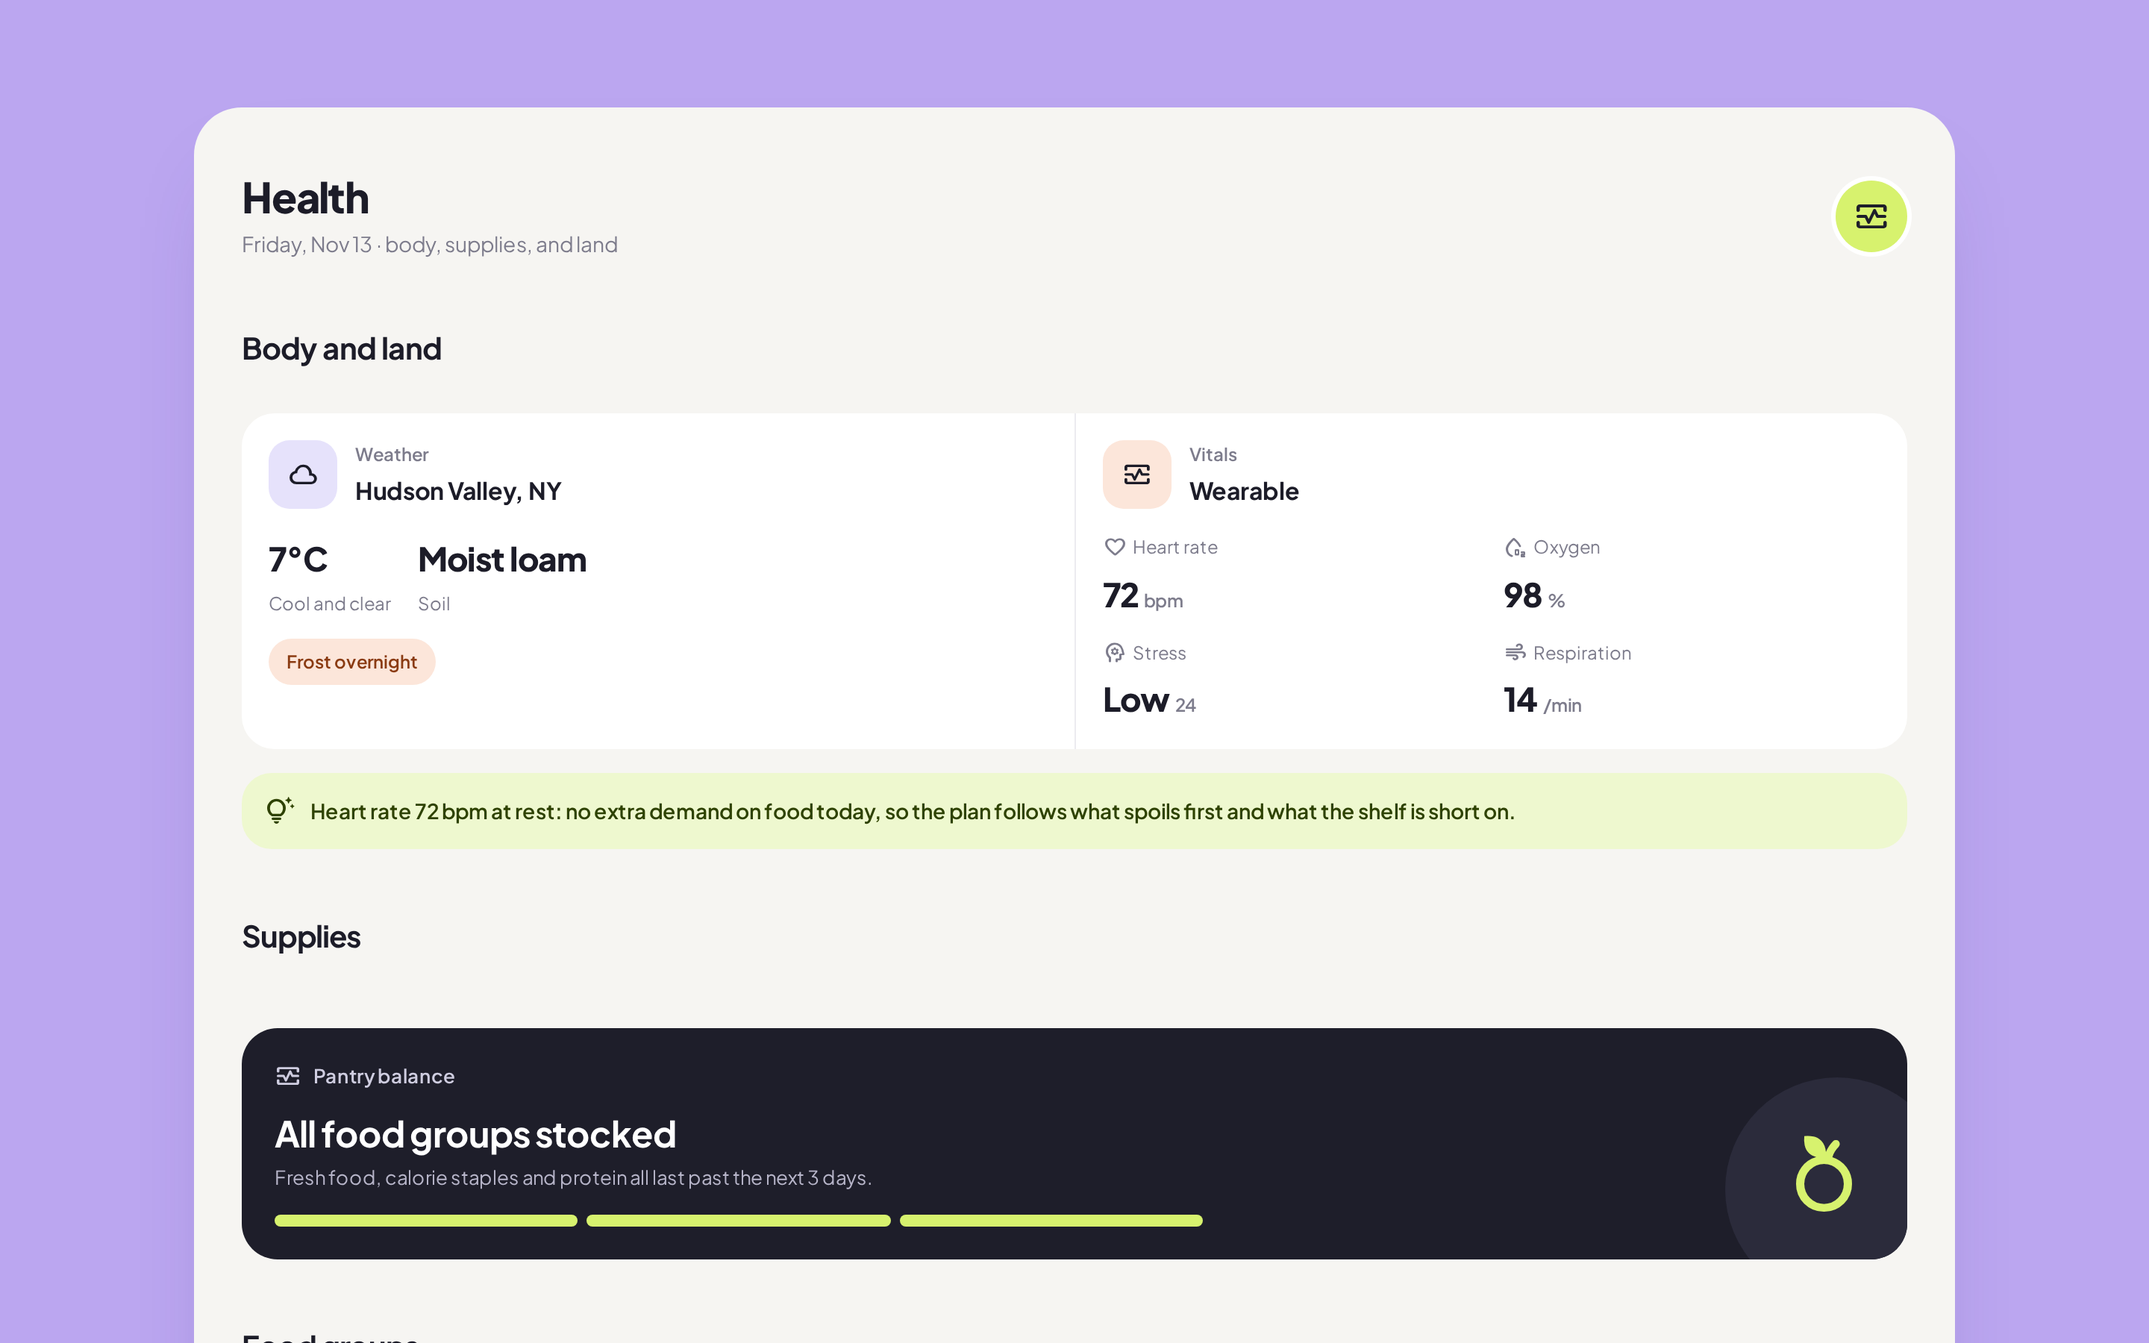
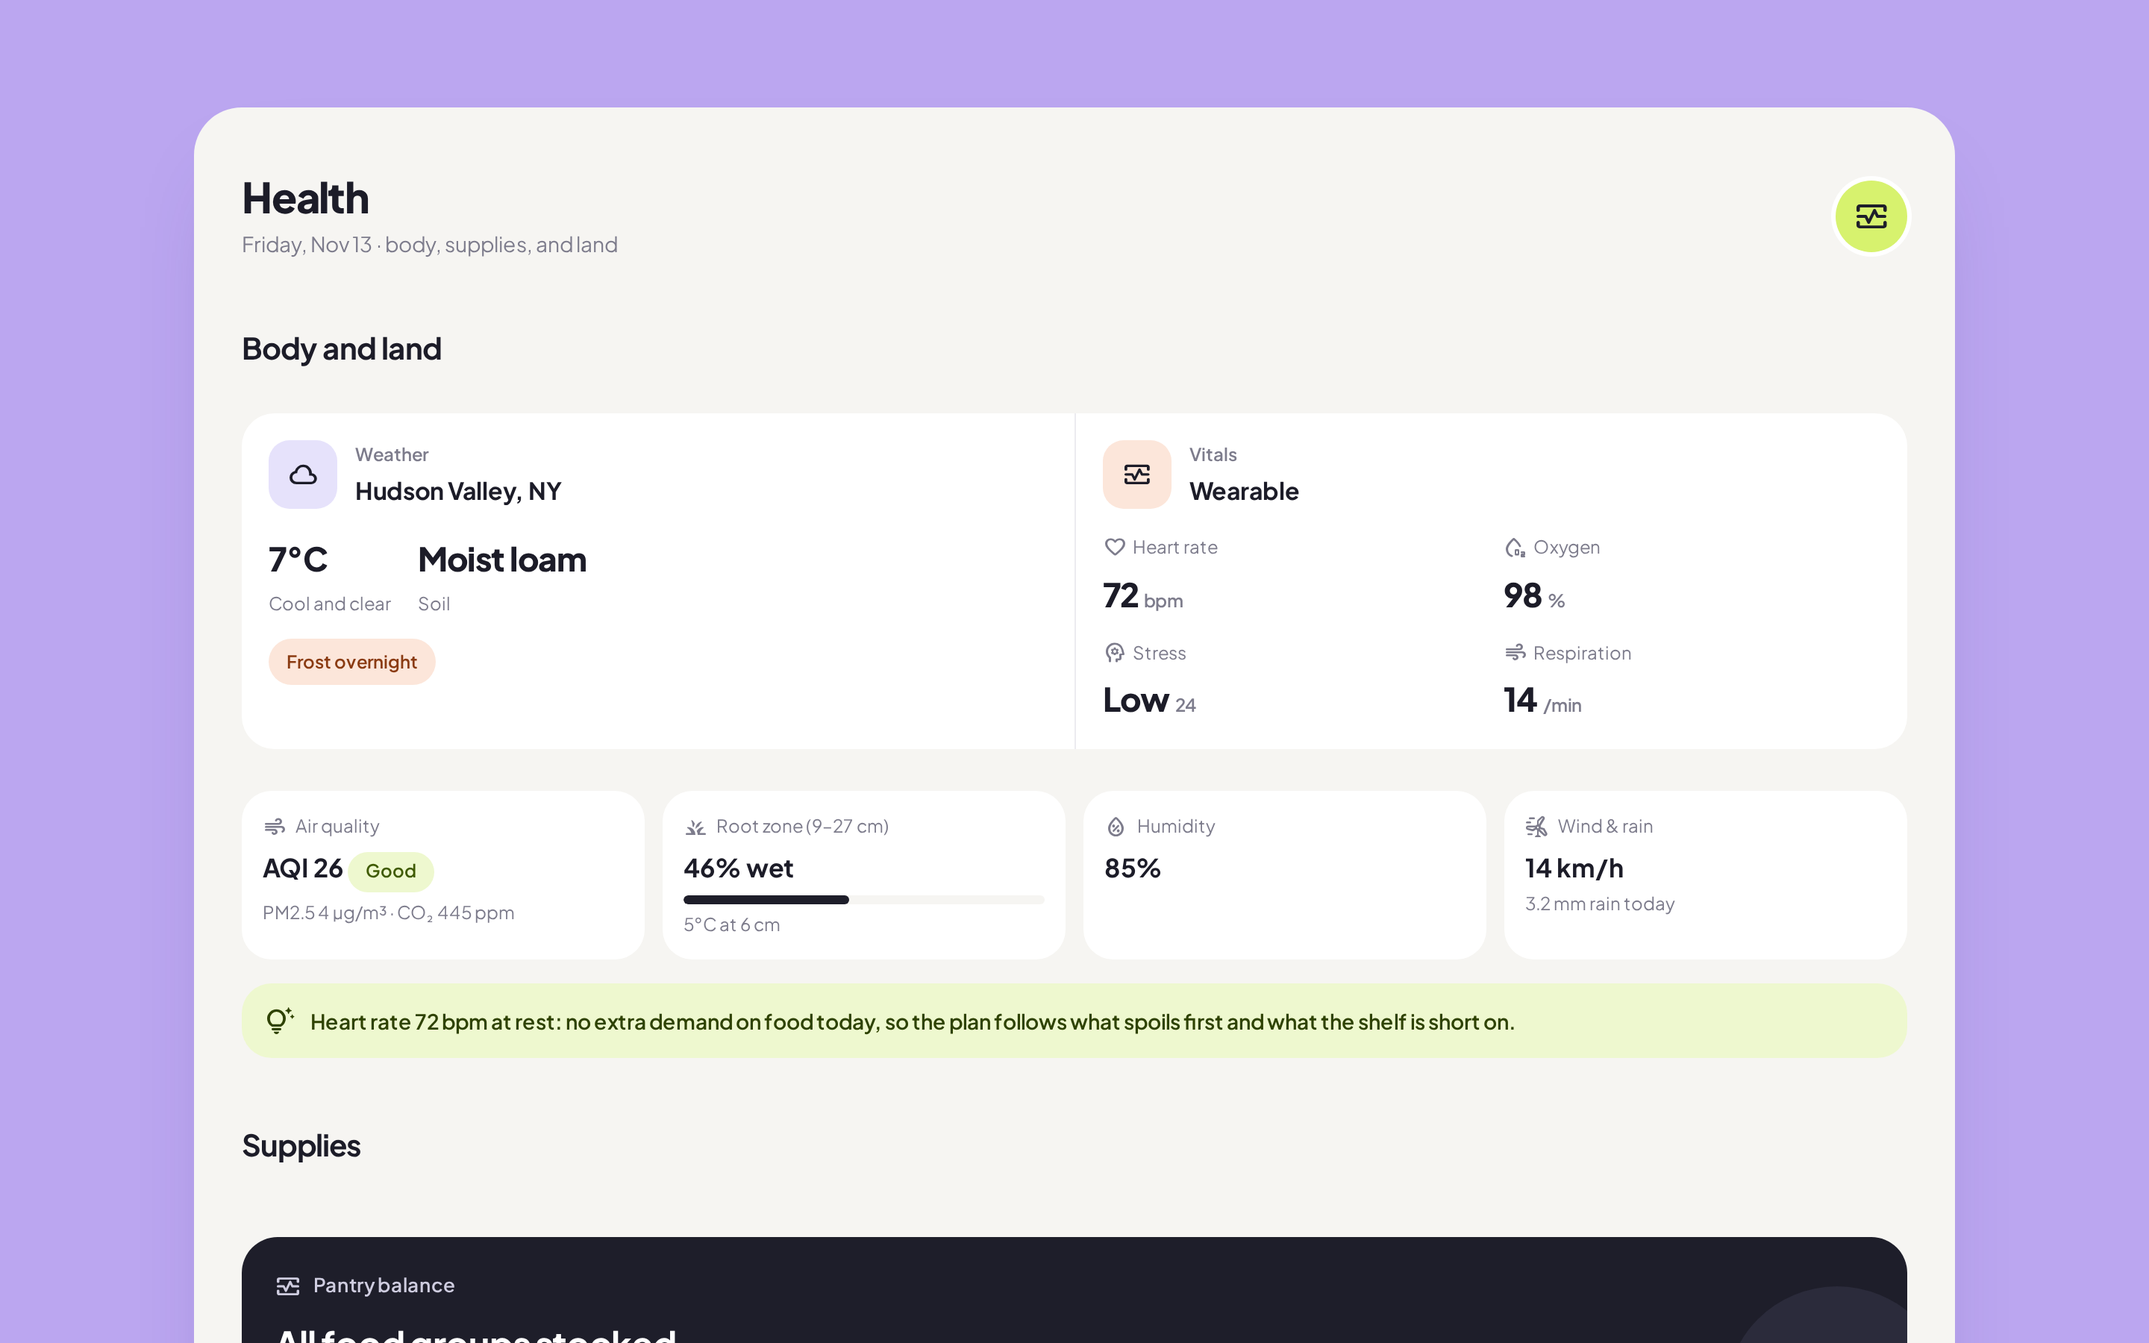
Air quality and deeper soil in the sensor; shown on Farm, Health, and the Why slide
The live sensor also reads Open-Meteo's air-quality feed (US AQI, PM2.5,
PM10, CO2, CO, ozone, NO2) plus root-zone moisture (9–27 cm), soil
temperature at 6 cm, humidity, wind, and today's rain. Weather still
counts if the air feed fails. New warnings: unhealthy air, smoke/dust,
heavy rain, high wind, dry root zone; a dry root zone also steers the
crop advice. The mock fixture carries the same fields from a real reading.
Why slide gains a 'Reads air, soil & weather' row.

Changed region(s): [[0.0938, 0.56, 0.9062, 1.0]]

diff --git a/pitch/index.html b/pitch/index.html
@@ -239,7 +239,7 @@
             <rect x="45" y="555" width="515" height="42" rx="21" fill="#FFFFFF" stroke="#BBA6F0" stroke-width="2"/>
             <text x="302" y="582" text-anchor="middle" font-size="17" font-weight="700" fill="#1C1C28">Wearable: heart rate · blood readings · CO₂</text>
             <rect x="640" y="555" width="518" height="42" rx="21" fill="#FFFFFF" stroke="#BBA6F0" stroke-width="2"/>
-            <text x="899" y="582" text-anchor="middle" font-size="17" font-weight="700" fill="#1C1C28">Sensors: weather · soil moisture · frost</text>
+            <text x="899" y="582" text-anchor="middle" font-size="17" font-weight="700" fill="#1C1C28">Sensors: weather · soil · air quality</text>
           </svg>
         </div>
         <aside class="notes">At the center is what you need: the wearable reads your body, the pantry your supplies, sensors the land. Around it: stock up, cook what spoils first, compost the scraps, plant the gap, harvest.</aside>
@@ -298,6 +298,12 @@
           <div class="cap">Cooks & plants for your gaps</div>
           <div class="no">—</div>
           <div class="part">~</div>
+          <div class="part">~</div>
+          <div class="no">—</div>
+          <div class="us">✓</div>
+          <div class="cap">Reads air, soil &amp; weather</div>
+          <div class="no">—</div>
+          <div class="no">—</div>
           <div class="part">~</div>
           <div class="no">—</div>
           <div class="us">✓</div>

diff --git a/larder/sensors/live.py b/larder/sensors/live.py
@@ -23,9 +23,10 @@ from collections.abc import Callable
 from datetime import datetime, timedelta, timezone
 from typing import Any
 
-from larder.sensors.base import LiveSensorUnavailable, SensorSnapshot
+from larder.sensors.base import AirQuality, LiveSensorUnavailable, SensorSnapshot
 
 API_URL = "https://api.open-meteo.com/v1/forecast"
+AIR_URL = "https://air-quality-api.open-meteo.com/v1/air-quality"
 CACHE_SECONDS = 600
 
 # Volumetric water content (m³/m³) at which a loam is saturated. Dividing by
@@ -105,13 +106,27 @@ class LiveSensor:
             {
                 "latitude": f"{self.latitude:.4f}",
                 "longitude": f"{self.longitude:.4f}",
-                "current": "temperature_2m,weather_code,soil_moisture_0_to_1cm,soil_temperature_0cm",
-                "daily": "temperature_2m_min",
+                "current": (
+                    "temperature_2m,weather_code,relative_humidity_2m,wind_speed_10m,"
+                    "soil_moisture_0_to_1cm,soil_moisture_9_to_27cm,soil_temperature_0cm,soil_temperature_6cm"
+                ),
+                "daily": "temperature_2m_min,precipitation_sum",
                 "forecast_days": 2,
                 "timezone": "auto",
             }
         )
         return f"{API_URL}?{query}"
+
+    def air_url(self) -> str:
+        query = urllib.parse.urlencode(
+            {
+                "latitude": f"{self.latitude:.4f}",
+                "longitude": f"{self.longitude:.4f}",
+                "current": "us_aqi,pm2_5,pm10,carbon_dioxide,carbon_monoxide,ozone,nitrogen_dioxide",
+                "timezone": "auto",
+            }
+        )
+        return f"{AIR_URL}?{query}"
 
     def read(self) -> SensorSnapshot:
         url = self.url()
@@ -119,8 +134,38 @@ class LiveSensor:
         if cached and time.monotonic() - cached[0] < self.cache_seconds:
             return cached[1]
         snapshot = self.parse(self._fetch(url, self.timeout))
+        try:
+            air = self.parse_air(self._fetch(self.air_url(), self.timeout))
+        except LiveSensorUnavailable:
+            air = None  # weather and soil still count without the air reading
+        snapshot = snapshot.model_copy(update={"air": air})
         _cache[url] = (time.monotonic(), snapshot)
         return snapshot
+
+    @staticmethod
+    def parse_air(payload: dict[str, Any]) -> AirQuality:
+        """Turn an Open-Meteo air-quality reply into readings, or refuse."""
+        try:
+            current = payload["current"]
+            aqi = current["us_aqi"]
+            if aqi is None:
+                raise KeyError("us_aqi")
+
+            def opt(key: str) -> float | None:
+                value = current.get(key)
+                return None if value is None else float(value)
+
+            return AirQuality(
+                us_aqi=int(aqi),
+                pm2_5=opt("pm2_5"),
+                pm10=opt("pm10"),
+                co2_ppm=opt("carbon_dioxide"),
+                carbon_monoxide=opt("carbon_monoxide"),
+                ozone=opt("ozone"),
+                nitrogen_dioxide=opt("nitrogen_dioxide"),
+            )
+        except (KeyError, TypeError, ValueError) as exc:
+            raise LiveSensorUnavailable(f"Air-quality reply is missing a field: {exc}") from exc
 
     def parse(self, payload: dict[str, Any]) -> SensorSnapshot:
         """Turn an Open-Meteo reply into a snapshot, or refuse."""
@@ -132,7 +177,12 @@ class LiveSensor:
             code = int(current["weather_code"])
             lows = [float(v) for v in payload["daily"]["temperature_2m_min"] if v is not None]
             raw_moisture = current.get("soil_moisture_0_to_1cm")
+            raw_root = current.get("soil_moisture_9_to_27cm")
             soil_temp = current.get("soil_temperature_0cm")
+            soil_temp_6 = current.get("soil_temperature_6cm")
+            humidity = current.get("relative_humidity_2m")
+            wind = current.get("wind_speed_10m")
+            rain = payload["daily"].get("precipitation_sum") or [None]
         except (KeyError, TypeError, ValueError) as exc:
             raise LiveSensorUnavailable(f"Open-Meteo reply is missing a field: {exc}") from exc
         if not lows:
@@ -158,5 +208,10 @@ class LiveSensor:
             soil_condition=condition,
             soil_moisture=moisture,
             frost_risk=low <= FROST_LOW_C,
+            soil_moisture_root=None if raw_root is None else max(0.0, min(1.0, float(raw_root) / SATURATED_VWC)),
+            soil_temp_c=None if soil_temp_6 is None else float(soil_temp_6),
+            humidity_pct=None if humidity is None else float(humidity),
+            wind_kph=None if wind is None else float(wind),
+            rain_today_mm=None if rain[0] is None else float(rain[0]),
             source="live",
         )

diff --git a/fallow_ui.py b/fallow_ui.py
@@ -19,7 +19,7 @@ from larder.health.nutrition import NutritionReport
 from larder.health.vitals import Vitals, stress_label
 from larder.meals.recipes import Recipe
 from larder.models import GrowPlan, InventoryItem, MealPlan, SpoilageRisk
-from larder.sensors.base import SensorSnapshot
+from larder.sensors.base import SensorSnapshot, aqi_label
 
 # Category -> (Material Symbols icon, pastel tile tone)
 CATEGORY_ICON = {
@@ -422,6 +422,50 @@ def conditions(snapshot: SensorSnapshot) -> None:
         f'<div class="fw-cond"><div class="l">{icon("ac_unit")}Frost</div><div class="v">{frost}</div></div>'
         "</div>"
     )
+
+
+def environment_details(snapshot: SensorSnapshot) -> None:
+    """Second row of condition cards: air, root-zone soil, humidity, wind and rain.
+
+    A card appears only when the sensor actually read that value.
+    """
+    cards: list[str] = []
+    air = snapshot.air
+    if air is not None:
+        tone = "lime" if air.us_aqi <= 50 else ("cream" if air.us_aqi <= 100 else "red")
+        extra = []
+        if air.pm2_5 is not None:
+            extra.append(f"PM2.5 {air.pm2_5:.0f} µg/m³")
+        if air.co2_ppm is not None:
+            extra.append(f"CO₂ {air.co2_ppm:.0f} ppm")
+        cards.append(
+            f'<div class="fw-cond"><div class="l">{icon("air")}Air quality</div>'
+            f'<div class="v">AQI {air.us_aqi} <span class="fw-pill {tone}">{escape(aqi_label(air.us_aqi))}</span></div>'
+            f'<div class="l" style="margin-top:4px">{escape(" · ".join(extra))}</div></div>'
+        )
+    root = snapshot.soil_moisture_root
+    if root is not None or snapshot.soil_temp_c is not None:
+        value = f"{root * 100:.0f}% wet" if root is not None else "n/a"
+        gauge = f'<div class="gauge"><span style="width:{root * 100:.0f}%"></span></div>' if root is not None else ""
+        temp = f"{snapshot.soil_temp_c:.0f}&deg;C at 6 cm" if snapshot.soil_temp_c is not None else ""
+        cards.append(
+            f'<div class="fw-cond"><div class="l">{icon("grass")}Root zone (9–27 cm)</div>'
+            f'<div class="v">{value}</div>{gauge}<div class="l" style="margin-top:4px">{temp}</div></div>'
+        )
+    if snapshot.humidity_pct is not None:
+        cards.append(
+            f'<div class="fw-cond"><div class="l">{icon("humidity_percentage")}Humidity</div>'
+            f'<div class="v">{snapshot.humidity_pct:.0f}%</div></div>'
+        )
+    if snapshot.wind_kph is not None or snapshot.rain_today_mm is not None:
+        wind = f"{snapshot.wind_kph:.0f} km/h" if snapshot.wind_kph is not None else "n/a"
+        rain = f"{snapshot.rain_today_mm:.1f} mm rain today" if snapshot.rain_today_mm is not None else ""
+        cards.append(
+            f'<div class="fw-cond"><div class="l">{icon("wind_power")}Wind &amp; rain</div>'
+            f'<div class="v">{wind}</div><div class="l" style="margin-top:4px">{rain}</div></div>'
+        )
+    if cards:
+        st.html('<div class="fw-conds" style="margin-top:12px">' + "".join(cards) + "</div>")
 
 
 def balance(grow: GrowPlan) -> None:

diff --git a/tests/test_live_sensor.py b/tests/test_live_sensor.py
@@ -76,3 +76,51 @@ def test_offline_falls_back_to_the_recorded_reading() -> None:
     assert snap.source == "fallback"
     assert "no network" in snap.note
     assert snap.location == MockSensor().read().location
+
+
+def _air(aqi: int = 26, pm25: float = 4.3) -> dict[str, Any]:
+    return {"current": {"us_aqi": aqi, "pm2_5": pm25, "pm10": 4.5, "carbon_dioxide": 445,
+                        "carbon_monoxide": 143.0, "ozone": 61.0, "nitrogen_dioxide": 4.8}}
+
+
+def _two_feeds(weather: dict[str, Any], air: dict[str, Any] | Exception) -> LiveSensor:
+    def fetch(url: str, timeout: float) -> dict[str, Any]:
+        if "air-quality" in url:
+            if isinstance(air, Exception):
+                raise air
+            return air
+        return weather
+
+    return LiveSensor(41.7, -73.93, "Hudson Valley, NY", fetch=fetch, cache_seconds=0)
+
+
+def test_air_quality_is_read_alongside_the_weather() -> None:
+    snap = _two_feeds(_reply(), _air()).read()
+    assert snap.air is not None
+    assert snap.air.us_aqi == 26
+    assert snap.air.co2_ppm == 445
+
+
+def test_weather_still_counts_when_the_air_feed_fails() -> None:
+    snap = _two_feeds(_reply(), LiveSensorUnavailable("air down")).read()
+    assert snap.source == "live"
+    assert snap.air is None
+
+
+def test_bad_air_and_smoke_raise_warnings() -> None:
+    from larder.sensors.warnings import condition_warnings
+
+    bad = _two_feeds(_reply(lows=[6.0, 7.0]), _air(aqi=160)).read()
+    assert "Air: unhealthy" in condition_warnings(bad)
+    smoky = _two_feeds(_reply(lows=[6.0, 7.0]), _air(aqi=90, pm25=48)).read()
+    assert "Smoke or dust in the air" in condition_warnings(smoky)
+    clean = _two_feeds(_reply(lows=[6.0, 7.0]), _air()).read()
+    assert not any("Air" in w or "Smoke" in w for w in condition_warnings(clean))
+
+
+def test_dry_root_zone_under_a_wet_surface_counts_as_dry() -> None:
+    reply = _reply(moisture=0.3, lows=[6.0, 7.0])
+    reply["current"]["soil_moisture_9_to_27cm"] = 0.08
+    snap = _two_feeds(reply, _air()).read()
+    assert snap.soil_moisture_root is not None and snap.soil_moisture_root < 0.3
+    assert "thyme" in [crop.crop for crop in advise(snap)]

diff --git a/larder/sensors/base.py b/larder/sensors/base.py
@@ -12,6 +12,33 @@ from typing import Literal, Protocol
 from pydantic import BaseModel, Field
 
 
+class AirQuality(BaseModel):
+    """Outdoor air at the garden. Units follow Open-Meteo / CAMS."""
+
+    us_aqi: int = Field(ge=0)
+    pm2_5: float | None = Field(default=None, ge=0)  # µg/m³
+    pm10: float | None = Field(default=None, ge=0)  # µg/m³
+    co2_ppm: float | None = Field(default=None, ge=0)
+    carbon_monoxide: float | None = Field(default=None, ge=0)  # µg/m³
+    ozone: float | None = Field(default=None, ge=0)  # µg/m³
+    nitrogen_dioxide: float | None = Field(default=None, ge=0)  # µg/m³
+
+
+def aqi_label(us_aqi: int) -> str:
+    """US EPA AQI bands."""
+    if us_aqi <= 50:
+        return "Good"
+    if us_aqi <= 100:
+        return "Moderate"
+    if us_aqi <= 150:
+        return "Unhealthy for sensitive groups"
+    if us_aqi <= 200:
+        return "Unhealthy"
+    if us_aqi <= 300:
+        return "Very unhealthy"
+    return "Hazardous"
+
+
 class SensorSnapshot(BaseModel):
     """One reading of place, weather, and soil."""
 
@@ -24,6 +51,14 @@ class SensorSnapshot(BaseModel):
     soil_condition: str = Field(min_length=1)
     soil_moisture: float | None = Field(default=None, ge=0, le=1)
     frost_risk: bool
+    # Deeper soil and the rest of the weather. All optional: a sensor that
+    # cannot read them leaves them out rather than guessing.
+    soil_moisture_root: float | None = Field(default=None, ge=0, le=1)  # 9–27 cm
+    soil_temp_c: float | None = None
+    humidity_pct: float | None = Field(default=None, ge=0, le=100)
+    wind_kph: float | None = Field(default=None, ge=0)
+    rain_today_mm: float | None = Field(default=None, ge=0)
+    air: AirQuality | None = None
     # Where this reading came from. "fallback" means the live feed failed
     # and a recorded reading stands in; ``note`` says why.
     source: Literal["mock", "live", "fallback"] = "mock"

diff --git a/larder/sensors/warnings.py b/larder/sensors/warnings.py
@@ -2,7 +2,11 @@
 
 from __future__ import annotations
 
-from larder.sensors.base import SensorSnapshot
+from larder.sensors.base import SensorSnapshot, aqi_label
+
+HEAVY_RAIN_MM = 20.0
+HIGH_WIND_KPH = 50.0
+SMOKE_PM25 = 35.0  # µg/m³, the US EPA 24-hour standard
 
 
 def condition_warnings(snapshot: SensorSnapshot) -> list[str]:
@@ -30,4 +34,17 @@ def condition_warnings(snapshot: SensorSnapshot) -> list[str]:
         notes.append("Soil is dry")
     elif moisture is not None and moisture > 0.75:
         notes.append("Soil is waterlogged")
+    root = snapshot.soil_moisture_root
+    if root is not None and root < 0.3 and not (moisture is not None and moisture < 0.3):
+        notes.append("Root zone is dry")
+    if snapshot.rain_today_mm is not None and snapshot.rain_today_mm >= HEAVY_RAIN_MM:
+        notes.append("Heavy rain")
+    if snapshot.wind_kph is not None and snapshot.wind_kph >= HIGH_WIND_KPH:
+        notes.append("High wind")
+    air = snapshot.air
+    if air is not None:
+        if air.us_aqi > 100:
+            notes.append(f"Air: {aqi_label(air.us_aqi).lower()}")
+        elif air.pm2_5 is not None and air.pm2_5 > SMOKE_PM25:
+            notes.append("Smoke or dust in the air")
     return notes

diff --git a/larder/grow/advisor.py b/larder/grow/advisor.py
@@ -155,5 +155,8 @@ def _snapshot_day(captured_at: datetime) -> date:
 def _soil_is_dry(snapshot: SensorSnapshot) -> bool:
     if snapshot.soil_moisture is not None and snapshot.soil_moisture < 0.3:
         return True
+    # A wet surface after a shower can hide a dry root zone.
+    if snapshot.soil_moisture_root is not None and snapshot.soil_moisture_root < 0.3:
+        return True
     text = snapshot.soil_condition.lower()
     return "dry" in text or "dust" in text

diff --git a/views/health.py b/views/health.py
@@ -31,6 +31,8 @@ except (LiveSensorUnavailable, ValueError, FileNotFoundError, OSError):
     snapshot = None
 ui.heading("Body and land")
 ui.condition_banner(snapshot, vitals, condition_warnings(snapshot) if snapshot else ["No weather reading"])
+if snapshot:
+    ui.environment_details(snapshot)
 st.html(f'<div class="fw-note">{ui.icon("tips_and_updates")}<span style="flex:1 1 200px">{escape(body_note(vitals))}</span></div>')
 ui.heading("Supplies")
 

diff --git a/views/farm.py b/views/farm.py
@@ -43,6 +43,7 @@ ui.heading("Conditions", pill=SOURCE_PILL[snapshot.source], anchor="conditions")
 if snapshot.note:
     st.caption(snapshot.note)
 ui.conditions(snapshot)
+ui.environment_details(snapshot)
 
 ui.heading("Pantry balance", "Food health", "health")
 ui.balance(grow)
